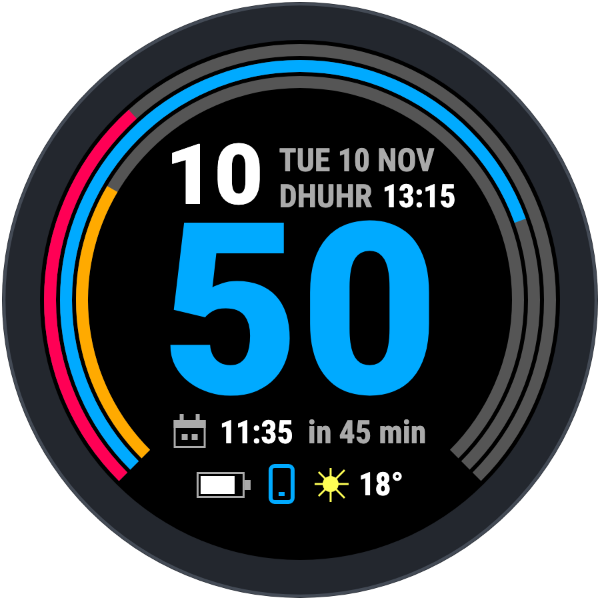
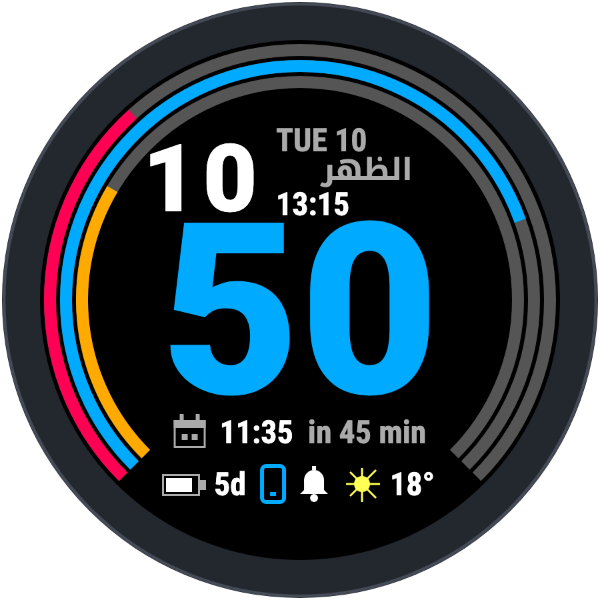
Show the new layout in the README image and add the notes of v1.2.0
- design/layouts.html: the new layout P7 is the current face, with the
  larger hour, the Arabic prayer name, the battery days and the alarm bell.
- tools/make_readme_image.sh: the default layout is P7.
- docs/watch-face.png: made again from P7.
- README.md: the text for the top and for the status row agrees with the
  face.
- docs/releases/v1.2.0.md: the release notes.

Changed region(s): [[0.24, 0.21, 0.78, 0.36], [0.27, 0.75, 0.72, 0.84]]

diff --git a/design/layouts.html b/design/layouts.html
@@ -4,7 +4,7 @@
 <meta charset="utf-8">
 <meta name="viewport" content="width=device-width, initial-scale=1">
 <title>FR255 Layout Variations</title>
-<link rel="stylesheet" href="https://fonts.googleapis.com/css2?family=Roboto:wght@400;500;900&family=Roboto+Condensed:wght@700&display=swap">
+<link rel="stylesheet" href="https://fonts.googleapis.com/css2?family=Roboto:wght@400;500;900&family=Roboto+Condensed:wght@700&family=Noto+Kufi+Arabic:wght@700&display=swap">
 <style>
   :root {
     --bg: #0c0f14; --surface: #141922; --fg: #e8edf5; --muted: #93a0b4; --line: #263042; --accent: #55aaff;
@@ -47,7 +47,7 @@
 <div class="page">
   <header>
     <h1>FR255 Layout Variations</h1>
-    <p class="muted">Layouts for your Forerunner 255 watch face, with the Sky blue accent and the white energy icon that you selected. The first six add the prayer time to the current watch face. The next nine are variations of M1. The next seven are the Minutes layout with three rings. The next ten are variations of Sun and Rings with more data. Give the code of the layout that you want.</p>
+    <p class="muted">Layouts for your Forerunner 255 watch face, with the Sky blue accent and the white energy icon that you selected. The first seven add the prayer time to the current watch face. The next nine are variations of M1. The next seven are the Minutes layout with three rings. The next ten are variations of Sun and Rings with more data. Give the code of the layout that you want.</p>
   </header>
   <div id="focus" class="groups"></div>
   <section class="group">
@@ -119,6 +119,39 @@
     k.battery = function (x, y) {
       k.box(x, y - 6, 24, 13, C.dim); k.rect(x + 24, y - 2, 3, 5, C.dim);
       k.rect(x + 2, y - 4, Math.round((20 * D.battery) / 100), 9, C.fg);
+    };
+    // The small battery of the current face, with the days that remain. x is the left edge, y is the center.
+    // The bar is 15 pixels wide at 100 %, and it is red at 20 % or less, as in StatusRow.mc.
+    k.batteryDays = function (x, y, percent, text) {
+      var low = percent <= 20, color = low ? C.heart : C.fg;
+      k.box(x, y - 5, 19, 11, C.dim); k.rect(x + 19, y - 2, 3, 5, C.dim);
+      if (percent > 0) { k.rect(x + 2, y - 3, Math.floor((15 * percent) / 100), 7, color); }
+      k.text(text, x + 26, y, XT, color);
+    };
+    // The alarm bell, 14 pixels wide. x and y are the center.
+    k.bell = function (x, y) {
+      k.disc(x, y - 2, 5, C.fg);
+      k.poly([[x - 5, y - 2], [x + 5, y - 2], [x + 5, y + 3], [x + 7, y + 5], [x - 7, y + 5], [x - 5, y + 3]], C.fg);
+      k.rect(x - 1, y - 9, 2, 2, C.fg); k.disc(x, y + 7, 2, C.fg);
+    };
+    // The name of a prayer in Arabic, as a glyph of the Prayer font: Noto Kufi Arabic Bold, 15 pixels.
+    // The width is the ink plus 2 pixels, as tools/make_fonts.py makes it. The glyph is in a cell of
+    // 18 pixels, with the baseline 13 pixels from the top. x is the left edge, y is the center of the cell.
+    k.prayerFont = function () { ctx.font = '700 15px "Noto Kufi Arabic", sans-serif'; ctx.direction = 'rtl'; };
+    k.prayerWidth = function (str) {
+      k.prayerFont();
+      var m = ctx.measureText(str);
+      var w = Math.ceil(Math.max(m.width, m.actualBoundingBoxLeft + m.actualBoundingBoxRight,
+        2 * m.actualBoundingBoxLeft, 2 * m.actualBoundingBoxRight)) + 2;
+      ctx.direction = 'ltr';
+      return w;
+    };
+    k.prayerName = function (str, x, y, color) {
+      var w = k.prayerWidth(str);
+      k.prayerFont();
+      ctx.fillStyle = color; ctx.textAlign = 'center'; ctx.textBaseline = 'alphabetic';
+      ctx.fillText(str, x + w / 2, y + 4);
+      ctx.direction = 'ltr';
     };
     k.calendar = function (x, y) {
       k.box(x, y - 6, 16, 14, C.dim); k.rect(x, y - 6, 16, 4, C.dim);
@@ -706,7 +739,9 @@
       topY = 58; size = 132; my = 136;
     }
     if (o.topY) { topY = o.topY; }
-    if (o.top === 'center') {
+    if (o.top === 'none') {
+      // The caller draws the top row.
+    } else if (o.top === 'center') {
       k.text(D.hour, cx, topY, 40, o.hourColor || C.fg, 'center', 'time');
     } else {
       var hs = o.hourSize || 36, hw = k.width(D.hour, hs, 'time'), dw = k.width(D.date, XT), x = cx - (hw + 8 + dw) / 2;
@@ -789,6 +824,42 @@
     };
   }
 
+  // The top row of the current face, as drawn by View.mc. The hour is 47 pixels high, and a column
+  // of three short lines is at its right: the day, the prayer name in Arabic, the prayer time.
+  // The hour and the column are centered as one group, with 8 pixels between them.
+  // y is the center of the hour, 61 pixels above the center of the screen.
+  function topRow(k, y) {
+    var hourSize = 47, gap = 8, date = 'TUE 10', name = 'الظهر', time = PRAYER.time;
+    var cell = 0;
+    D.hour.split('').concat(['0', '1', '2', '3', '4', '5', '6', '7', '8', '9']).forEach(function (d) {
+      cell = Math.max(cell, k.width(d, hourSize, 'time'));
+    });
+    cell = Math.ceil(cell) + 2;
+    var hourWidth = cell * D.hour.length;
+    var column = Math.max(Math.ceil(k.width(date, XT)), k.prayerWidth(name), Math.ceil(k.width(time, XT)));
+    var x = Math.floor(cx - (hourWidth + gap + column) / 2);
+    D.hour.split('').forEach(function (d, i) { k.text(d, x + i * cell + cell / 2, y, hourSize, C.fg, 'center', 'time'); });
+    x += hourWidth + gap;
+    k.text(date, x, y - 19, XT, C.dim);
+    k.prayerName(name, x, y - 3, C.dim);
+    k.text(time, x, y + 13, XT, C.fg);
+  }
+  // The status row of the current face, as drawn by View.mc: the battery with the days that remain,
+  // the phone, the alarm bell and the weather, centered as one group with 8 pixels between the parts.
+  function statusRow(k, y) {
+    var gap = 8, days = '5d', temp = D.temp;
+    var parts = [
+      { w: 19 + 3 + 4 + k.width(days, XT), draw: function (x) { k.batteryDays(x, y, D.battery, days); } },
+      { w: 11, draw: function (x) { k.phone(x + 5, y); } },
+      { w: 14, draw: function (x) { k.bell(x + 7, y); } },
+      { w: 18 + 5 + k.width(temp, XT), draw: function (x) { k.sun(x + 9, y); k.text(temp, x + 23, y, XT, C.fg); } }
+    ];
+    var total = gap * (parts.length - 1);
+    parts.forEach(function (p) { total += p.w; });
+    var x = Math.floor(cx - total / 2);
+    parts.forEach(function (p) { p.draw(x, y); x += p.w + gap; });
+  }
+
   var PRAYERS = {
     title: 'Prayer time',
     note: 'The current watch face, with the next prayer added. The times on this page are examples. At 10:50 the next prayer is Dhuhr at 13:15.',
@@ -831,6 +902,12 @@
         draw: function (k) {
           build(k, { second: function (k2, x, y) { k2.pairAt(x, y, PRAYER.name, PRAYER.time); } });
           var p = parts(k); line(k, 222, [p.battery, p.phone, p.weather], 10);
+        } },
+      { code: 'P7', name: 'Current face',
+        note: 'The face as the watch draws it now. The hour has three short lines at its right: the day, the prayer name in Arabic and the prayer time. The status row has the battery with its days, the phone, an alarm bell and the weather.',
+        draw: function (k) {
+          m1(k, { rings: 'open', top: 'none' }); k.eventLine(196);
+          topRow(k, cy - 61); statusRow(k, cy + 92);
         } }
     ]
   };
@@ -1079,7 +1156,8 @@
   if (document.fonts && document.fonts.load) {
     Promise.all([
       document.fonts.load('900 80px Roboto', '0123456789'),
-      document.fonts.load('700 16px "Roboto Condensed"', 'TUE 10 NOV')
+      document.fonts.load('700 16px "Roboto Condensed"', 'TUE 10 NOV'),
+      document.fonts.load('700 15px "Noto Kufi Arabic"', 'الظهر')
     ]).then(drawAll, function () {});
   }
 })();

diff --git a/docs/releases/v1.2.0.md b/docs/releases/v1.2.0.md
@@ -1,0 +1,40 @@
+Watch face for the Garmin Forerunner 255, with the official Habous prayer times of Morocco.
+
+This release changes the watch face. The Worker that gives the prayer times is the same as in v1.1.0. To get the changes, install the new file on the watch.
+
+## What is new
+
+### Watch face
+
+- **Battery days.** The status row shows a small battery icon with the number of days that remain, for example `9d`. When the watch does not give the days, the row shows the percentage.
+- **Alarm bell.** The status row shows a bell when at least one alarm is set.
+- **Larger hour.** The hour is now 47 pixels high. The day, the prayer name and the prayer time are three short lines at its right. The month is not shown.
+- **Arabic prayer names.** The name of the next prayer is in Arabic, in Noto Kufi Arabic Bold. The watch cannot join Arabic letters, thus a new font holds each name as one glyph.
+
+### Documentation
+
+- The image of the watch face in the README shows the new layout.
+- `design/` has the drawings of the status row and of the top row.
+
+## Install
+
+`fr255-watchface.zip` contains the watch face (`fr255-watchface.prg`) and the install steps (`INSTALL.txt`).
+
+1. Connect the watch to the computer with a USB data cable.
+2. Copy `fr255-watchface.prg` into the folder `GARMIN/APPS` of the watch. On macOS, use OpenMTP or Android File Transfer, and close Garmin Express first.
+3. Disconnect the watch.
+4. On the watch, hold the UP button, select "Watch Face", then select "FR255 Test Face".
+
+## Compatibility
+
+- The file is for the standard Forerunner 255. The 255 Music, the 255s and the 255s Music need their own build.
+- The official Habous times show for a position 25 km or less from a listed city of Morocco. In all other cases, the watch calculates the times and shows them with the mark `~`.
+- The JSON contract between the watch and the Worker did not change.
+
+## Known limits
+
+- The prayer names show only in Arabic.
+- A correction that Habous publishes in a month can stay invisible until the end of that month, because the Worker keeps the month file.
+- The CI cannot run the Monkey C unit tests. It only proves that they compile.
+
+**All changes:** https://github.com/iliassjabali/fr255-watchface/compare/v1.1.0...v1.2.0

diff --git a/README.md b/README.md
@@ -4,7 +4,7 @@ A Connect IQ watch face for the Garmin Forerunner 255 (`fr255`), with a small
 Cloudflare Worker that gives it the official prayer times for Morocco.
 
 <p align="center">
-  <img src="docs/watch-face.png" width="300" alt="The watch face: large blue minutes, three open rings, the hour, the date, the next prayer, the next calendar event, the battery, the phone and the weather">
+  <img src="docs/watch-face.png" width="300" alt="The watch face: large blue minutes, three open rings, the hour, the day, the next prayer in Arabic, the next calendar event, the battery days, the phone, the alarm bell and the weather">
 </p>
 
 The image is a drawing from `design/layouts.html`, with example values. The
@@ -16,9 +16,10 @@ the image again.
 - **Center:** the minutes, large, in blue.
 - **Rings**, from the edge to the center: heart rate (red), Body Battery
   (blue), stress (orange). The rings are open at the bottom.
-- **Top:** the hour, the date, and the next prayer.
+- **Top:** the hour, the day, and the next prayer with its Arabic name.
 - **In the opening of the rings:** the next calendar event with a countdown,
-  then the watch battery, the phone connection and the weather.
+  then the days of watch battery that remain, the phone connection, a bell
+  when an alarm is set, and the weather.
 
 ## Repository
 
